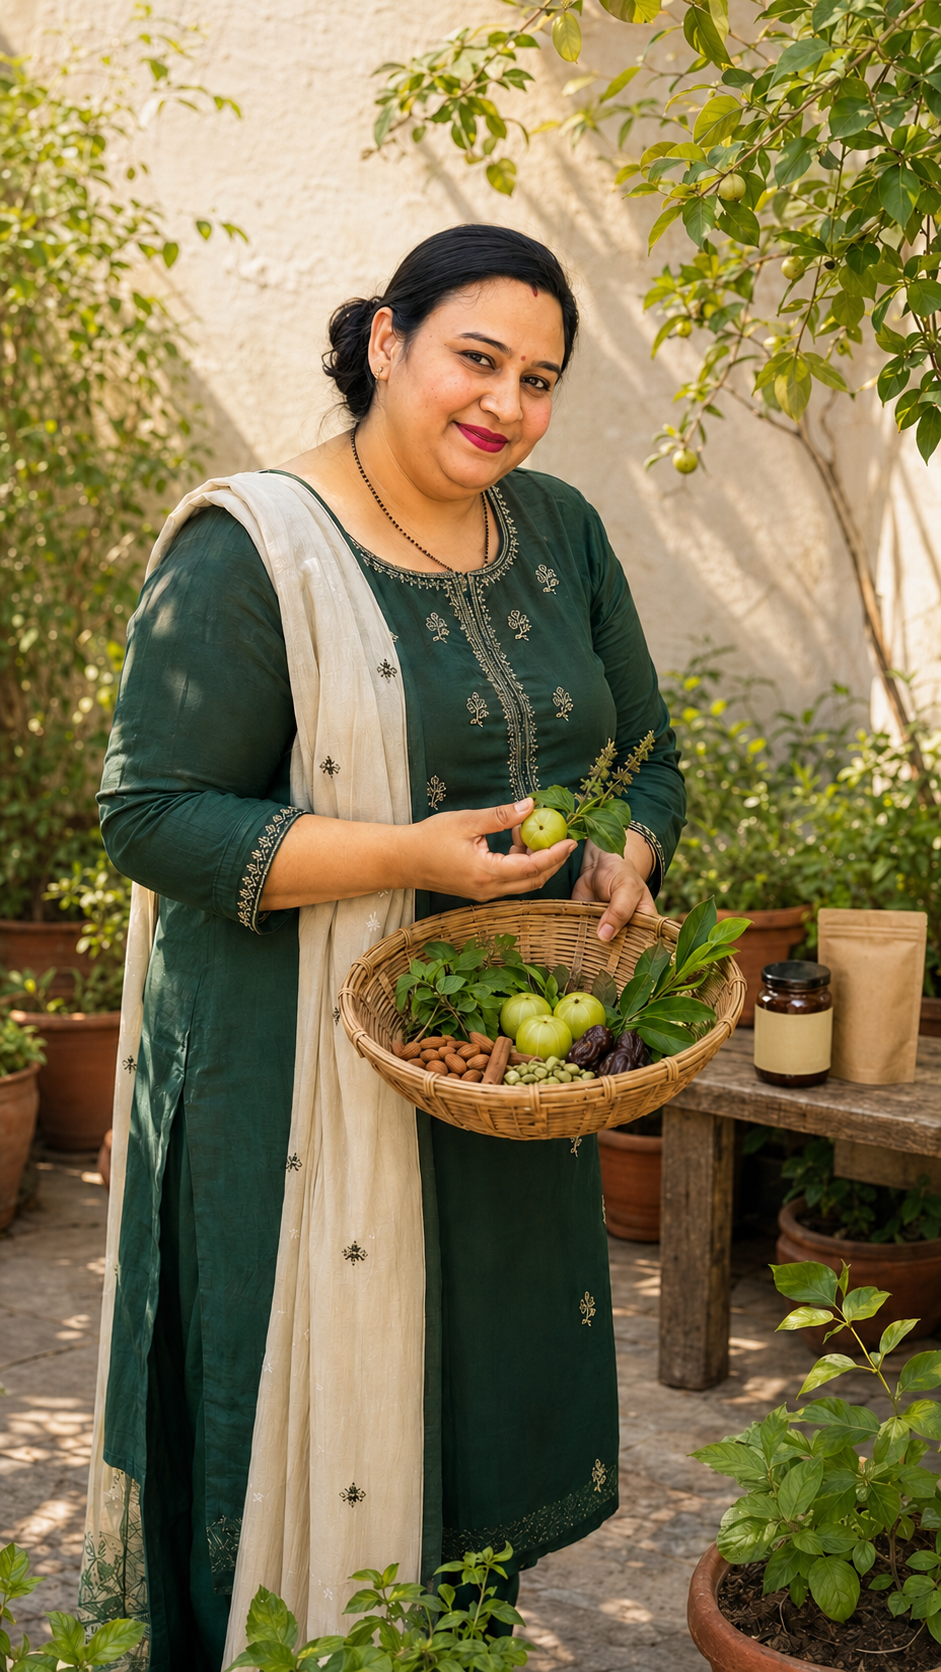
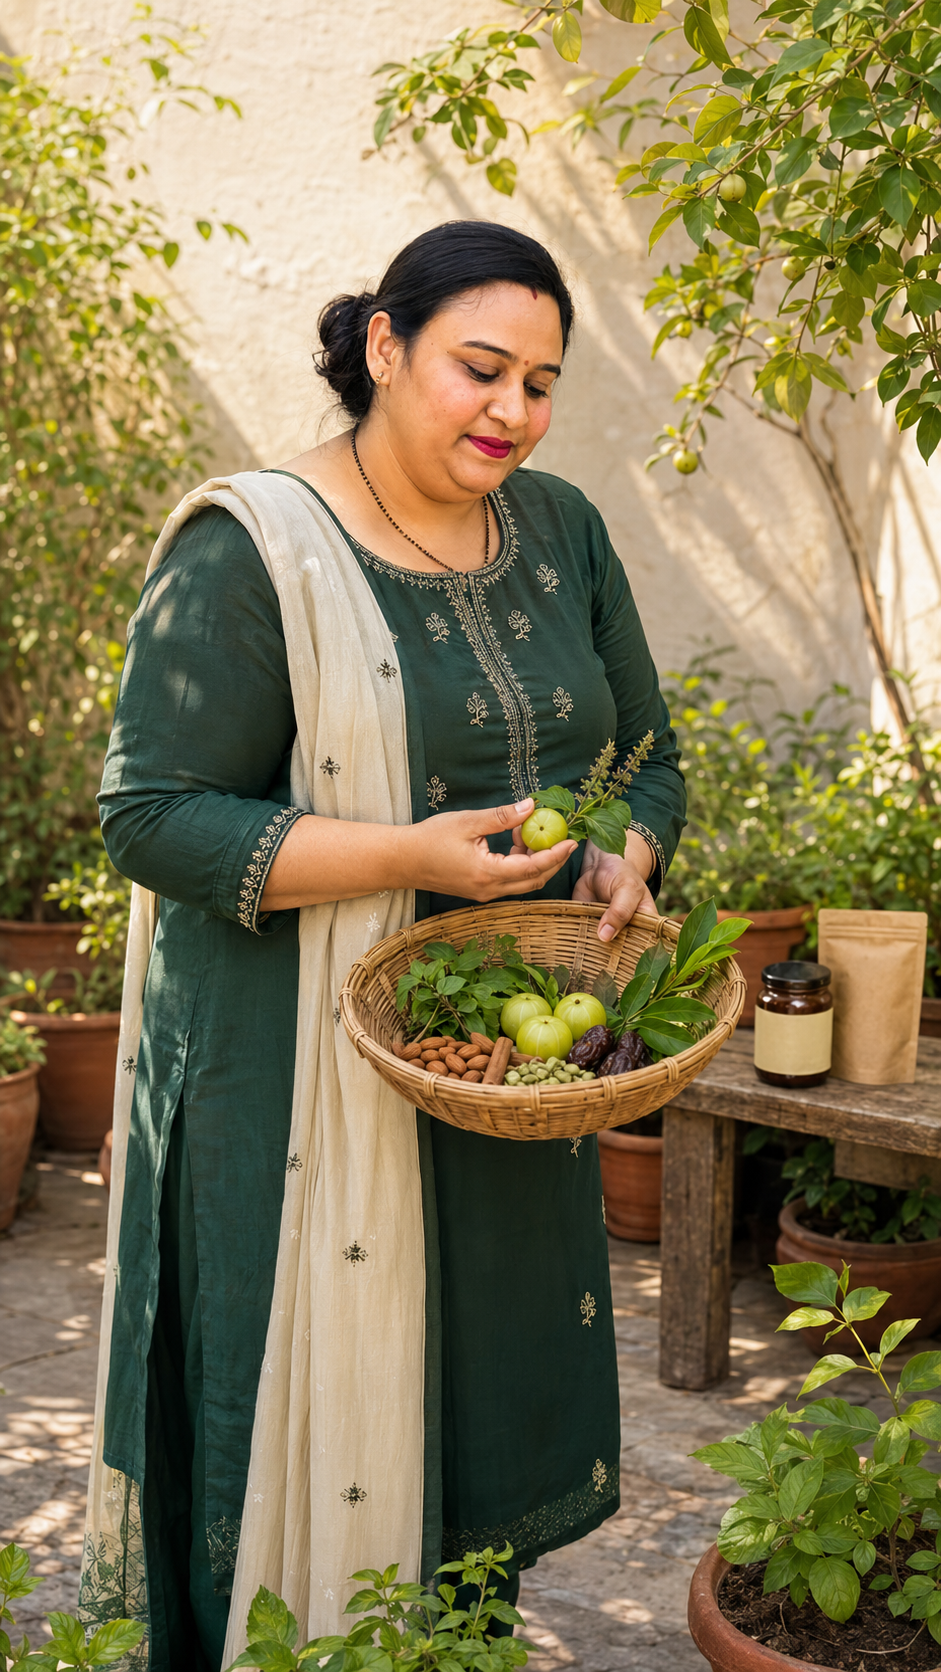
Meet Our Founder: use the ingredient-selecting garden photo (face framed higher)
Restore the garden photo the user wants for the founder section and shift the
4:5 crop up (objectPosition center 8%) so Kiran's face sits in the upper third.

diff --git a/ui_kits/website/Sections.jsx b/ui_kits/website/Sections.jsx
@@ -356,7 +356,7 @@ function Founder() {
           {/* portrait source (977x1610) — framed 4:5 and focused slightly high so
               her face, hands and the laddu tray all stay in shot */}
           <div style={{ overflow: "hidden", borderRadius: 32, border: "1px solid var(--border)", boxShadow: "var(--shadow-lg)", aspectRatio: "4 / 5", position: "relative" }}>
-            <img src={`${ASSET}/meet-kiran-garden.png`} alt="Kiran Bansal selecting fresh Ayurvedic ingredients in her garden in Kotkapura" style={{ position: "absolute", inset: 0, width: "100%", height: "100%", objectFit: "cover", objectPosition: "center 18%", display: "block" }} />
+            <img src={`${ASSET}/meet-kiran-garden.png`} alt="Kiran Bansal selecting fresh Ayurvedic ingredients in her garden in Kotkapura" style={{ position: "absolute", inset: 0, width: "100%", height: "100%", objectFit: "cover", objectPosition: "center 8%", display: "block" }} />
           </div>
           <div style={{ position: "absolute", bottom: -20, right: -20, borderRadius: 18, border: "1px solid color-mix(in oklab, var(--gold) 40%, transparent)", background: "var(--card)", padding: "12px 20px", textAlign: "center", boxShadow: "var(--shadow-lg)" }}>
             <p style={{ fontFamily: "var(--font-display)", fontSize: 24, fontStyle: "italic", color: "var(--primary)" }}>Kiran Bansal</p>
